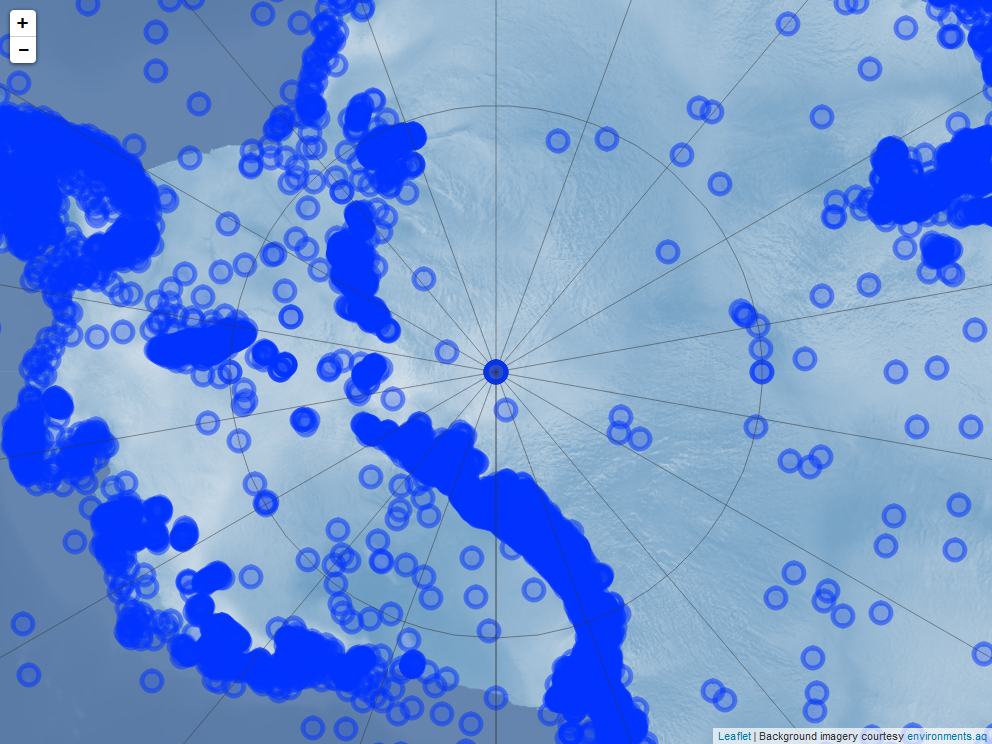
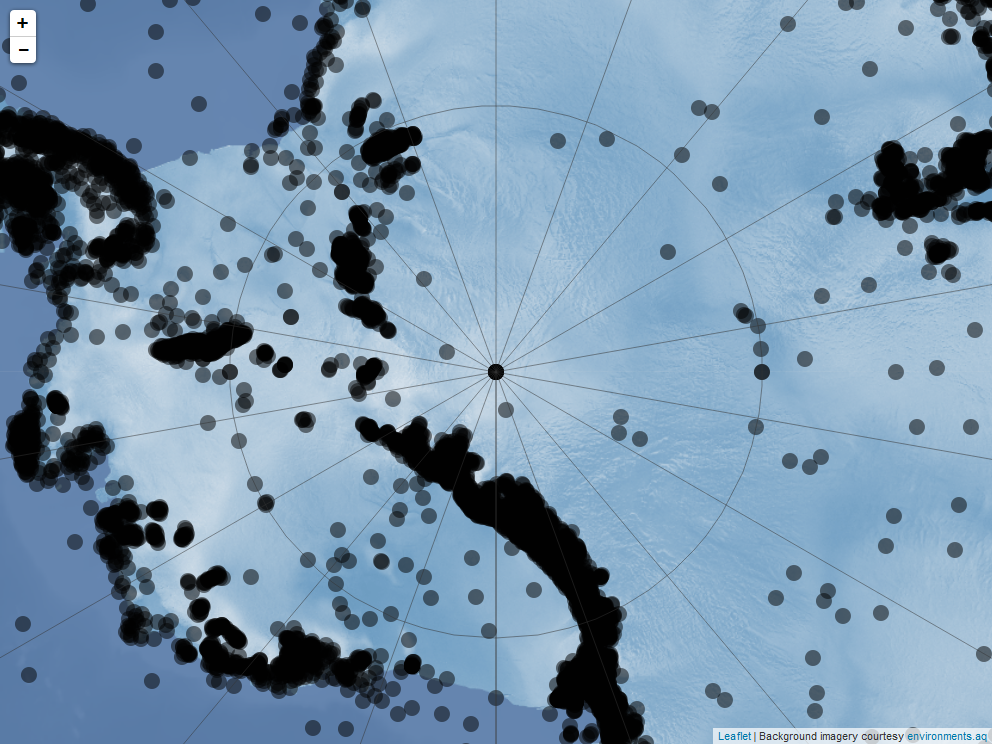
tweaks to leaflet maps

diff --git a/README.md b/README.md
@@ -179,7 +179,7 @@ m <- leaflet() %>%
   addProviderTiles("Esri.WorldImagery") %>%
   addMarkers(lng=temp$longitude,lat=temp$latitude,group="placenames",
     clusterOptions = markerClusterOptions(),popup=popup,
-    label=temp$place_name,labelOptions=labelOptions(textOnly=TRUE))
+    label=temp$place_name)
 ```
 
 We can also use a [polar stereographic projection](https://australianantarcticdatacentre.github.io/antanym-demo/leafletps.html). Note that the leaflet package here must be the rstudio version (use `devtools::install_github("rstudio/leaflet")`).
@@ -199,10 +199,11 @@ crsAntartica <-  leafletCRS(
 )
 
 mps <- leaflet(options= leafletOptions(crs=crsAntartica,minZoom=0,worldCopyJump=FALSE)) %>%
-setView(0,-90,startZoom) %>%
-addCircleMarkers(lng=temp$longitude,lat=temp$latitude,group="placenames",
+    setView(0,-90,startZoom) %>%
+    addCircleMarkers(lng=temp$longitude,lat=temp$latitude,group="placenames",
                      popup=popup,label=temp$place_name,
-                     labelOptions=labelOptions(textOnly=TRUE)) %>%
+                     fillOpacity=0.5,radius=8,stroke=FALSE,color="#000",
+                     labelOptions=labelOptions(textOnly=FALSE)) %>%
     addWMSTiles(baseUrl="https://maps.environments.aq/mapcache/antarc/?",
                 layers="antarc_ramp_bath_shade_mask",
                 options=WMSTileOptions(format="image/png",transparent=TRUE),
